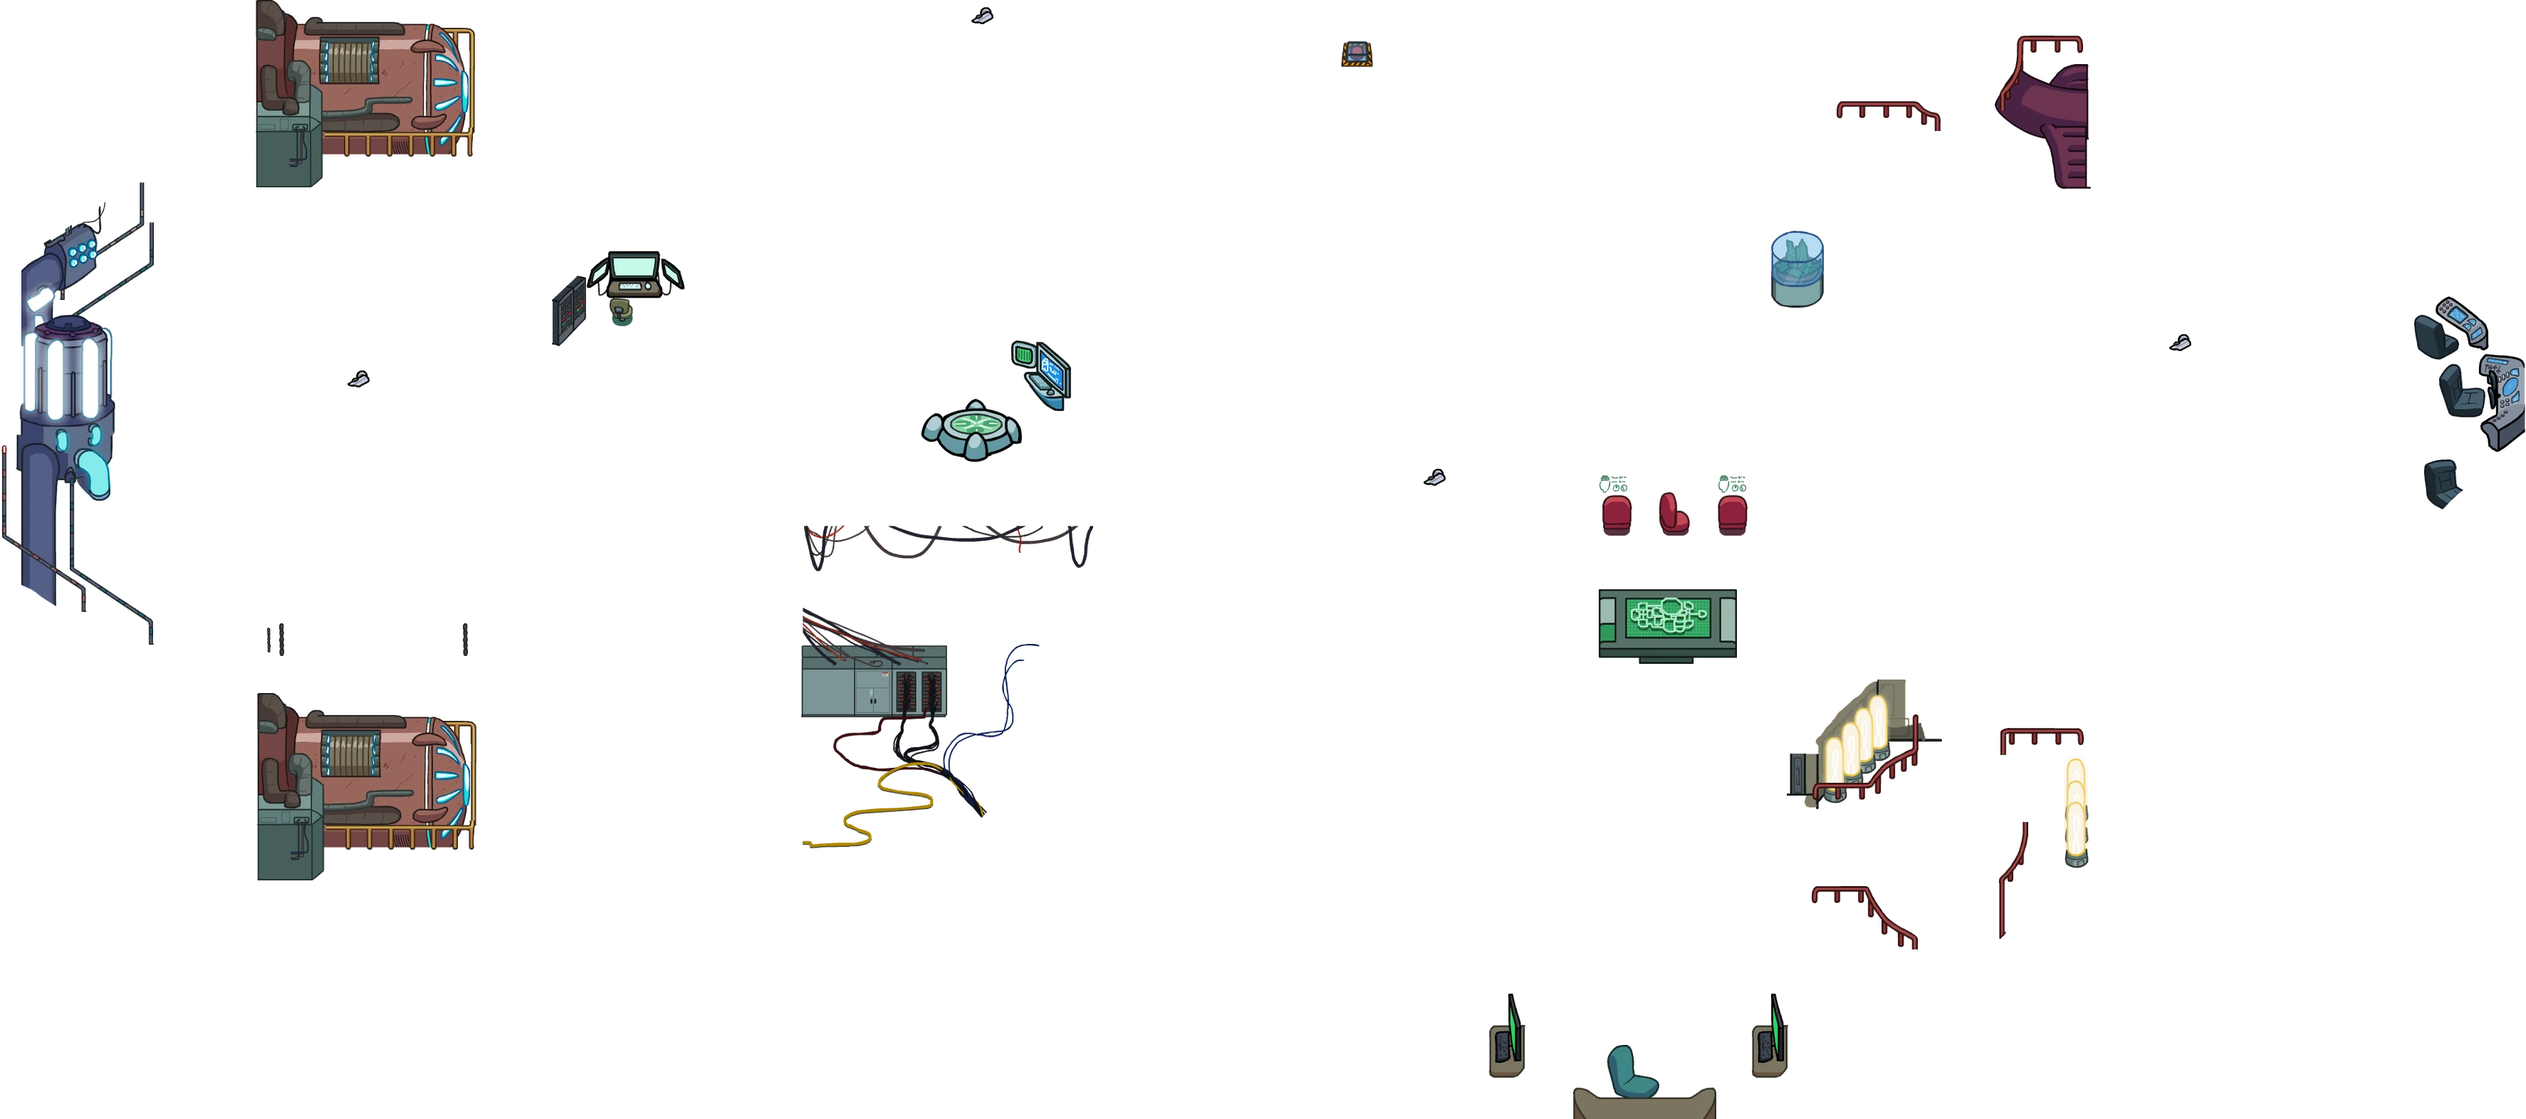
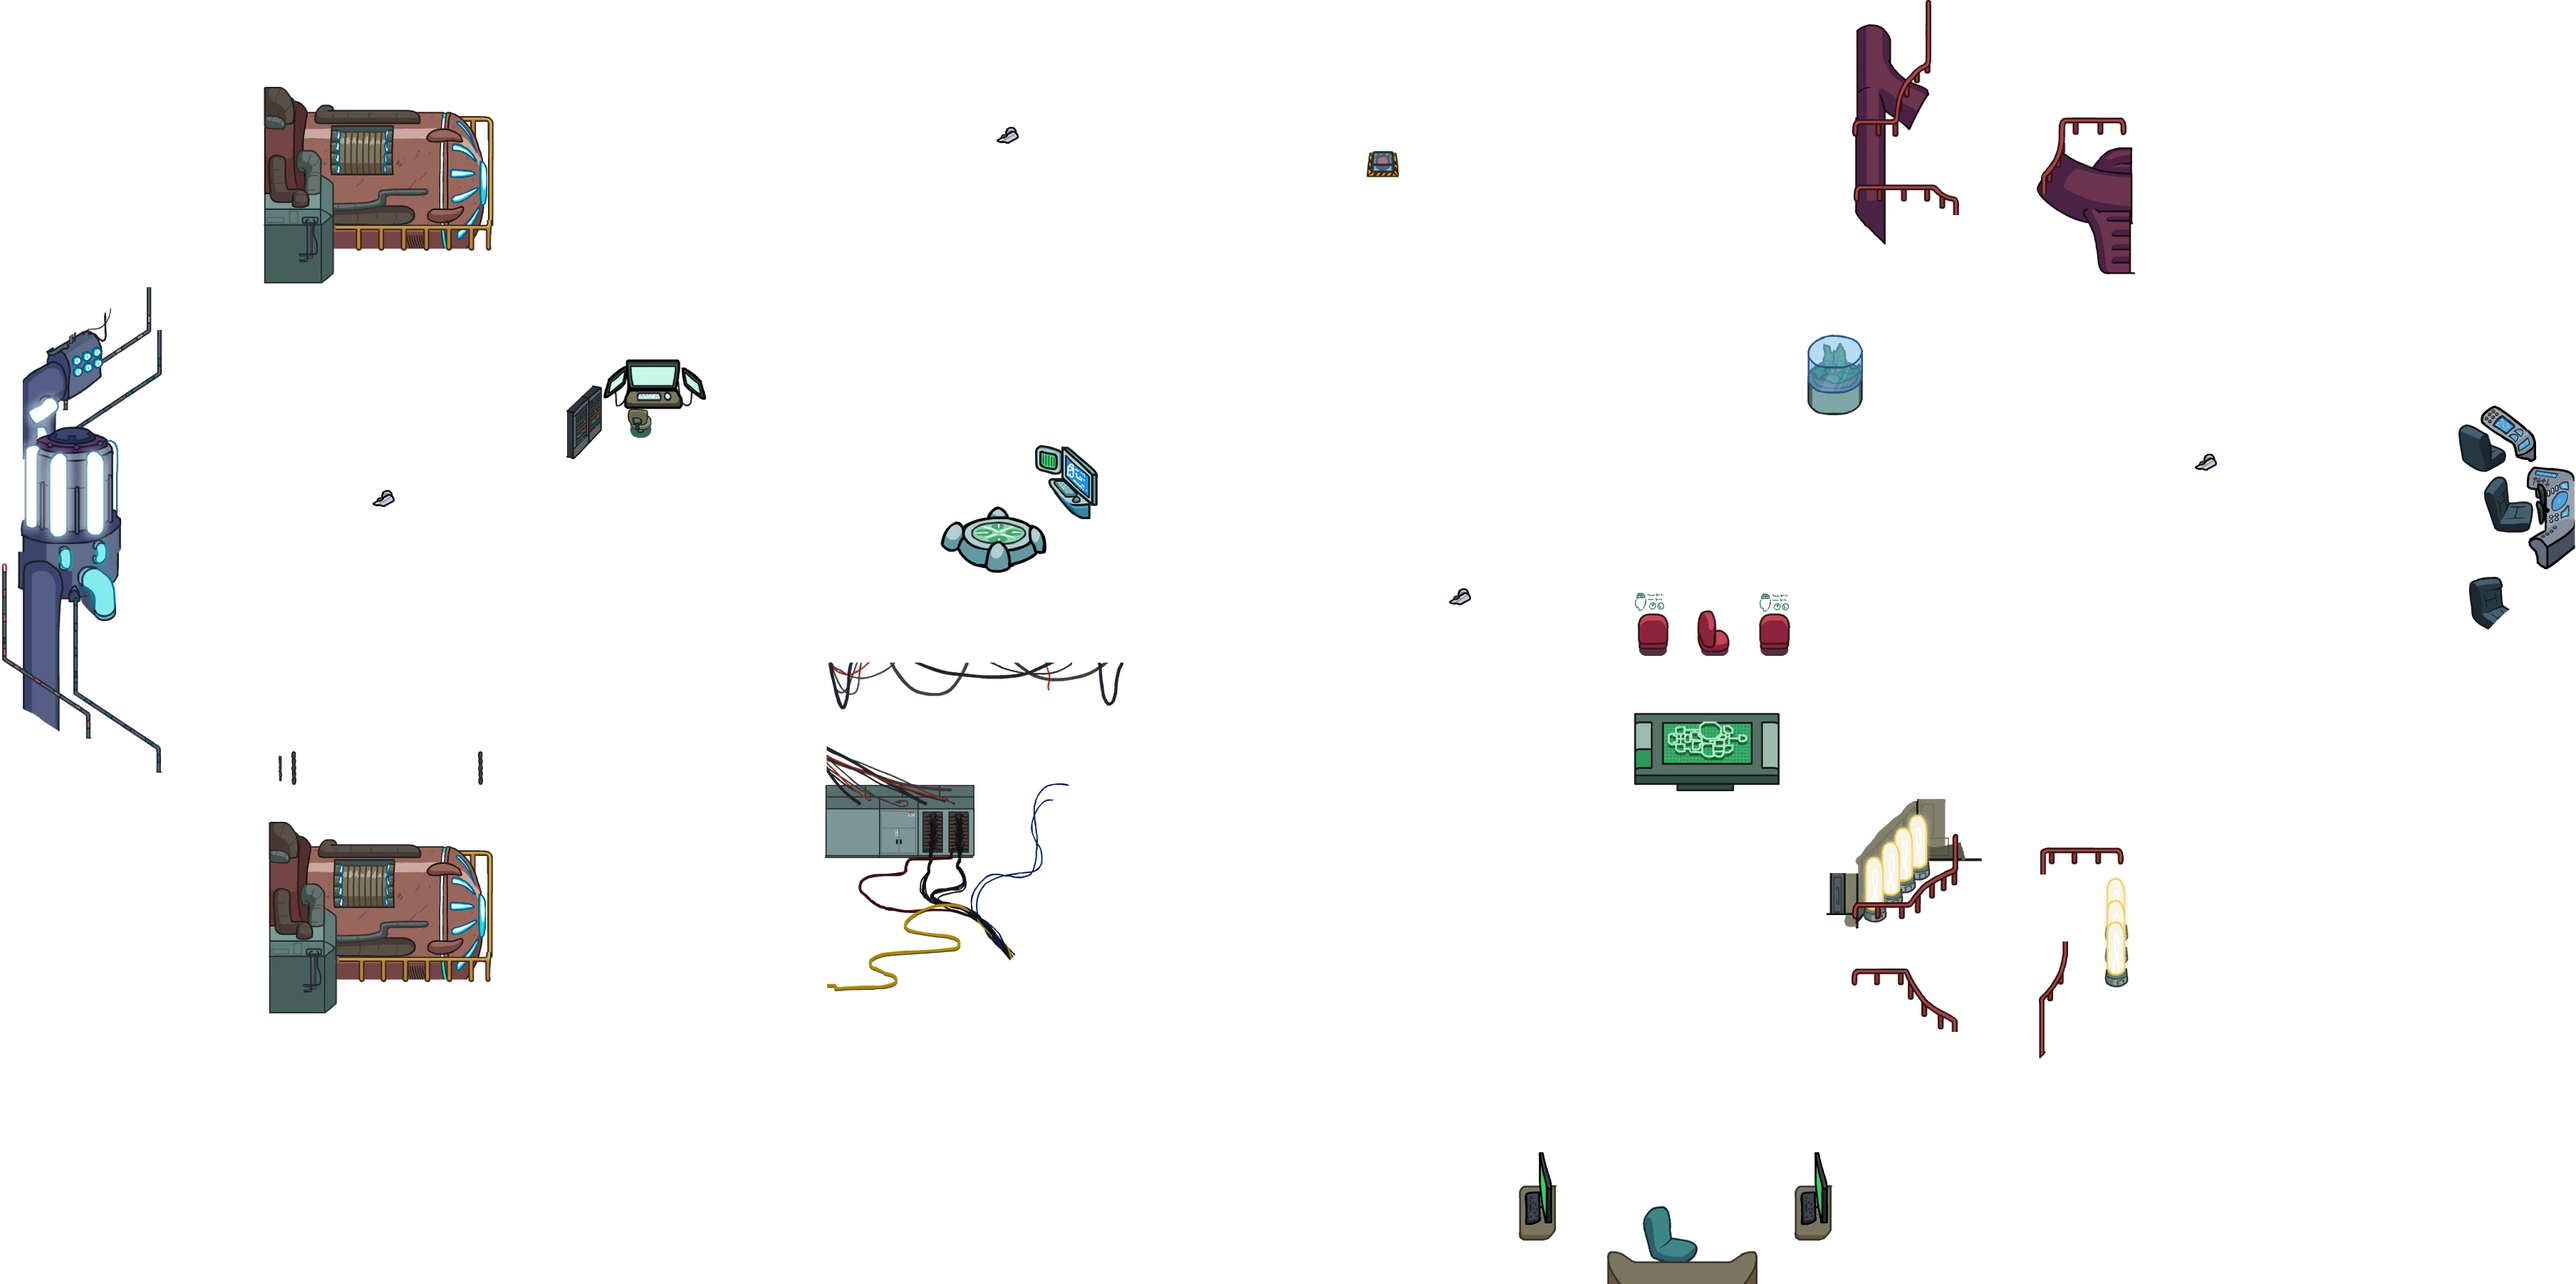
스켈드: 방마다 원작 바닥·벽 그림으로 위치·배율을 자동으로 맞춰 오브젝트 배치 수정
- tools/recon/match_rooms.py: 방별 원작 바닥·벽 스프라이트를 팬아트 위에서 맞춰 이동·배율 계산 (room_fit.json)
  예) 무기실 (21,-52), 통신실 (17,58), 관리실 (15,7), 항해실 (26,-7), 배율 1.02~1.05
- overlay.py: 방별 맞춤 적용, 이전의 수동 보정 제거, 무기실 왼쪽 배관·난간 복구
- 벤트, 관리실 탁자, CCTV 책상, 엔진 미션 위치를 같은 변환으로 원작 위치에
- 가구 충돌을 새 그림 위치로 다시 계산

Claude-Session: https://claude.ai/code/session_019x8pZeshMezN2CYKGSH5nq

diff --git a/tools/recon/match_rooms.py b/tools/recon/match_rooms.py
@@ -1,0 +1,84 @@
+# 방마다 원작 벽·바닥 스프라이트(기준)를 팬아트 그림 위에서 맞춰 보며 가장 잘 맞는 이동량·배율을 찾는다
+# 출력: room_fit.json {방: [dx, dy, s, 오차, 이동 전 오차]}  — 방 기준점(방 노드 위치) 중심으로 s 배 후 (dx,dy) 이동
+import sys, os, json, math
+sys.argv_rooms=sys.argv[1:] or None
+if not sys.argv_rooms: del sys.argv_rooms
+sys.argv=['x','SkeldShip.glb','texmap_skeld3.json','/dev/null','^$']
+src=open('overlay.py').read()
+exec(src.split("nodes=world(glb(P+sys.argv[1]))")[0].split("# 팬아트")[0])
+import numpy as np
+from PIL import Image
+AX,BX,AY,BY=98.9,1977.9,-94.5,609.7
+K=(abs(AX)+abs(AY))/2/100
+ALIAS=json.load(open('alias_skeld.json'))
+GROUND={'Electrical':{'Ground':'room_electrical'},'Medical':{'Ground':'room_med'},'LeftEngine':{'Ground':'room_LEng'},'RightEngine':{'Ground':'room_REng'},'LifeSupport':{'Ground':'room_lifeSupport'},'Security':{'Ground':'room_security'},'Cafeteria':{'Ground':'room_cafeteria'}}
+ANCH={
+ 'Admin':['admin_walls','admin_walltop','admin_bridge'],
+ 'Cockpit':['nav_walls.png'],
+ 'Weapons':['weap_platform','weap_wall','weap_walltop'],
+ 'Shields':['shields_floor'],
+ 'Electrical':[],
+ 'Reactor':['reactor_ceiling','reactor_wall'],
+ 'Storage':['storage_Boxes'],
+ 'Comms':['comms_walls','comms_wallstuff'],
+ 'Medical':[], 'LeftEngine':[], 'RightEngine':[], 'LifeSupport':[], 'Security':[], 'Cafeteria':[],
+}
+base=np.array(Image.open('/home/user/among1-2/client/assets/map/skeld.png').convert('RGBA')).astype(np.float32)
+H,W=base.shape[:2]
+nodes=world(glb(P+'SkeldShip.glb'))
+def render_room(room, s):
+  """방 기준 노드들을 s 배로 그린 RGBA (팬아트 좌표, 방 중심 기준 확대)"""
+  rn=[n for n in nodes if n['path'].split('/')[2:3]==[room] and n['depth']==1][0]
+  cx,cy=AX*rn['x']+BX, AY*rn['y']+BY
+  can=Image.new('RGBA',(W,H),(0,0,0,0))
+  spec=ANCH[room]
+  items=[n for n in nodes if n['path'].startswith('/SkeldShip/'+room+'/') and (n['name'] in spec or (n['name'] in GROUND.get(room,{}) and n['depth']==2))]
+  items.sort(key=lambda n:(-n['z'],n['depth']))
+  for n in items:
+    im,sp=sprite_img(GROUND.get(room,{}).get(n['name'],n['name']) if n['depth']==2 else n['name'])
+    if im is None: continue
+    ppu=sp['ppu'] or 100
+    sw=max(1,int(im.size[0]*abs(n['sx'])*K*100/ppu*s)); sh=max(1,int(im.size[1]*abs(n['sy'])*K*100/ppu*s))
+    img=im.resize((sw,sh),Image.LANCZOS)
+    piv=sp['pivot'] or {'m_X':0.5,'m_Y':0.5}
+    px=cx+(AX*n['x']+BX-cx)*s; py=cy+(AY*n['y']+BY-cy)*s
+    can.alpha_composite(img,(int(px-piv['m_X']*sw),int(py-(1-piv['m_Y'])*sh)))
+  return np.array(can).astype(np.float32), (cx,cy)
+def samples(spr, n=None):
+  a=spr[:,:,3]>200
+  ys,xs=np.nonzero(a)
+  if n and len(ys)>n:
+    sel=np.random.RandomState(0).choice(len(ys),n,replace=False); ys,xs=ys[sel],xs[sel]
+  return ys,xs,spr[ys,xs,:3]
+def score(smp, dx, dy):
+  ys,xs,col=smp
+  ys2,xs2=ys+dy,xs+dx
+  ok=(ys2>=0)&(ys2<H)&(xs2>=0)&(xs2<W)
+  b=base[ys2[ok],xs2[ok]]
+  vis=b[:,3]>128
+  if vis.sum()<200: return 1e9
+  return float(np.abs(b[vis,:3]-col[ok][vis]).mean())
+ROOMS=sys.argv_rooms if hasattr(sys,'argv_rooms') else list(ANCH)
+RNG=int(os.environ.get('RNG','100'))
+out=json.load(open('room_fit.json')) if os.path.exists('room_fit.json') else {}
+for room in ROOMS:
+  best=None
+  for s in [0.9,0.94,0.98,1.0,1.02,1.05,1.08,1.12]:
+    spr,c=render_room(room,s)
+    smp=samples(spr,5000)
+    if len(smp[0])<500: continue
+    for dy in range(-RNG,RNG+1,4):
+      for dx in range(-RNG,RNG+1,4):
+        e=score(smp,dx,dy)
+        if best is None or e<best[3]: best=[dx,dy,s,e]
+  dx,dy,s,e=best
+  spr,c=render_room(room,s); smp=samples(spr)
+  best[3]=score(smp,dx,dy)
+  for ddy in range(-4,5):
+    for ddx in range(-4,5):
+      e2=score(smp,dx+ddx,dy+ddy)
+      if e2<best[3]: best=[dx+ddx,dy+ddy,s,e2]
+  spr0,_=render_room(room,1.0)
+  best.append(score(samples(spr0),0,0))
+  out[room]=best; print(room,[round(v,2) for v in best],flush=True)
+json.dump(out,open('room_fit.json','w'),indent=0)

diff --git a/tools/recon/overlay.py b/tools/recon/overlay.py
@@ -73,6 +73,8 @@ AX,BX,AY,BY=[float(v) for v in os.environ.get('FIT','98.9,1977.9,-94.5,609.7').s
 K=(abs(AX)+abs(AY))/2/100   # 스프라이트 배율 (원작 PPU 100 기준)
 INC=re.compile(sys.argv[4]); EXC=re.compile(sys.argv[5]) if len(sys.argv)>5 and sys.argv[5] else None
 ROOMOFF=json.load(open(os.environ['ROOMOFF'])) if os.environ.get('ROOMOFF') else {}
+# 방별 맞춤 (tools/recon/match_rooms.py): 방 노드 위치를 중심으로 s 배 확대한 뒤 (dx, dy) 이동
+ROOMFIT=json.load(open(os.environ['ROOMFIT'])) if os.environ.get('ROOMFIT') else {}
 nodes=world(glb(P+sys.argv[1]))
 ALIAS=json.load(open(os.environ['ALIAS'])) if os.environ.get('ALIAS') else {}
 items=[]
@@ -89,9 +91,12 @@ W,H=3587+OX*2,2064+OY*2
 canvas=Image.new('RGBA',(W,H),(0,0,0,0))
 items.sort(key=lambda t:(-t[0]['z'], t[0]['depth']))
 BOXES=[]
+ROOMNODE={n['path'].split('/')[2]:n for n in nodes if n['depth']==1}
 for n,im,s in items:
     ppu=s['ppu'] or 100
-    sw=max(1,int(im.size[0]*abs(n['sx'])*K*100/ppu)); sh=max(1,int(im.size[1]*abs(n['sy'])*K*100/ppu))
+    room=n['path'].split('/')[2] if n['path'].count('/')>=2 else ''
+    fdx,fdy,fs=(ROOMFIT[room][:3] if room in ROOMFIT else (0,0,1.0))
+    sw=max(1,int(im.size[0]*abs(n['sx'])*K*100/ppu*fs)); sh=max(1,int(im.size[1]*abs(n['sy'])*K*100/ppu*fs))
     img=im.resize((sw,sh),Image.LANCZOS)
     if n['sx']<0: img=img.transpose(Image.FLIP_LEFT_RIGHT)
     if n['sy']<0: img=img.transpose(Image.FLIP_TOP_BOTTOM)
@@ -100,7 +105,8 @@ for n,im,s in items:
     room=n['path'].split('/')[2] if n['path'].count('/')>=2 else ''
     # 보정: 노드 경로 끝이 일치하는 항목이 있으면 그것, 없으면 방 단위
     dx,dy=next((v for k,v in ROOMOFF.items() if '/' in k and n['path'].endswith(k)), ROOMOFF.get(room,[0,0]))
-    px=AX*n['x']+BX+OX+dx; py=AY*n['y']+BY+OY+dy
+    rn=ROOMNODE.get(room,n); cx,cy=AX*rn['x']+BX, AY*rn['y']+BY
+    px=cx+(AX*n['x']+BX-cx)*fs+fdx+OX+dx; py=cy+(AY*n['y']+BY-cy)*fs+fdy+OY+dy
     ox_,oy_=int(px-piv['m_X']*img.size[0]),int(py-(1-piv['m_Y'])*img.size[1])
     canvas.alpha_composite(img,(ox_,oy_))
     bb=img.getbbox()

diff --git a/tools/recon/viz_anchor.py b/tools/recon/viz_anchor.py
@@ -1,0 +1,11 @@
+import sys
+room=sys.argv[1]; dx,dy,s=float(sys.argv[2]),float(sys.argv[3]),float(sys.argv[4]); out=sys.argv[5]
+exec(open('match_rooms.py').read().split("def samples")[0])
+spr,c=render_room(room,s)
+from PIL import Image
+b=Image.open('/home/user/among1-2/client/assets/map/skeld.png').convert('RGBA')
+o=Image.fromarray(spr.astype('uint8'))
+a=np.array(o); a[:,:,3]=(a[:,:,3]*0.55).astype('uint8'); o=Image.fromarray(a)
+c2=Image.new('RGBA',b.size,(40,0,40,255)); c2.alpha_composite(b); c2.alpha_composite(o,(int(dx),int(dy)))
+bb=Image.fromarray(spr.astype('uint8')).getbbox()
+c2.crop((bb[0]-120+int(dx),bb[1]-120+int(dy),bb[2]+120+int(dx),bb[3]+120+int(dy))).convert('RGB').save(out)

diff --git a/tools/recon/README.md b/tools/recon/README.md
@@ -35,8 +35,8 @@ ALIAS=alias_mira.json python3 render.py MiraShip.glb texmap_mira.json mira_full.
 - 그린 것: 상·하부 엔진 본체와 난간, 원자로 노심·받침·배관·전선, 보안실 서버, 의무실 스캐너, 산소 탱크, 관리실 지도 홀로그램·화면·콘솔 의자, 보안실 CCTV 책상, 의무실 컴퓨터, 항해실 의자·조종/항로 콘솔, 통신실 양옆 모니터 책상·아래 책상과 의자, 전기실 배전반·전선, 방어막실 전구·난간, 무기실 배관·난간, 비상 버튼, 복도 감시 카메라, 선체 바깥 추진기·무기 포신·방어막 (뒤 레이어)
 
 ```sh
-ROOMOFF=roomoff_skeld.json ALIAS=alias_skeld.json python3 overlay.py SkeldShip.glb texmap_skeld.json front.png "$(cat skeld_front_nodes.txt)"
-ROOMOFF=roomoff_skeld.json ALIAS=alias_skeld.json python3 overlay.py SkeldShip.glb texmap_skeld.json back.png '/HullItems/'
+ROOMFIT=room_fit.json ROOMOFF=roomoff_skeld.json ALIAS=alias_skeld.json python3 overlay.py SkeldShip.glb texmap_skeld.json front.png "$(cat skeld_front_nodes.txt)"
+ROOMFIT=room_fit.json ROOMOFF=roomoff_skeld.json ALIAS=alias_skeld.json python3 overlay.py SkeldShip.glb texmap_skeld.json back.png '/HullItems/'
 # 각각 투명 테두리를 잘라 WebP 로 저장하고, 잘린 위치를 tools/skeld-objects.mjs 의 LAYERS 에 적는다
 ```
 
@@ -44,4 +44,13 @@ ROOMOFF=roomoff_skeld.json ALIAS=alias_skeld.json python3 overlay.py SkeldShip.g
 
 팬아트 스켈드의 방은 원작보다 좁은 곳이 있어서, 원작 위치 그대로 놓으면 방 입구나 복도를 가리는 오브젝트가 생긴다
 (무기실 왼쪽 배관, 방어막실 왼쪽 난간). 오브젝트 레이어의 불투명 픽셀이 "걸을 수 있고 어느 방에도 속하지 않는 칸(복도)"을
-덮는지 검사해, 벽걸이 카메라 말고는 없도록 맞췄다. 무기실 왼쪽 배관과 거기 붙은 난간은 이 그림에 놓을 자리가 없어 넣지 않는다.
+덮는지 검사해, 벽걸이 카메라 말고는 없도록 맞췄다. (방별 맞춤을 한 뒤로는 무기실 왼쪽 배관·난간도 입구를 가리지 않아 다시 넣었다.)
+
+### 방별 맞춤 (room_fit.json)
+
+팬아트 스켈드는 방마다 원작과 위치·크기가 조금씩 다르다 (예: 무기실 52px 위, 통신실 58px 아래, 대부분 2~5% 큼).
+그래서 맵 전체에 변환 하나를 쓰면 방 안 오브젝트가 어긋난다. `match_rooms.py` 는 방마다 원작 바닥·벽 스프라이트
+(room_med, room_LEng, admin_walls, weap_platform 등)를 팬아트 그림 위에서 옮기고 키워 보며 색 차이가 가장 작은
+이동(dx, dy)과 배율(s)을 찾는다. `overlay.py` 에 `ROOMFIT=room_fit.json` 을 주면 그 방의 모든 오브젝트에 같은 값을 쓴다.
+`viz_anchor.py 방 dx dy s 출력.png` 로 맞춘 결과를 겹쳐 볼 수 있다. 방어막실은 원작 바닥 스프라이트가 바닥 아래층만이라
+자동 맞춤이 안 돼서 가운데 원을 기준으로 직접 정했다 (+20, 0, 1.0).
